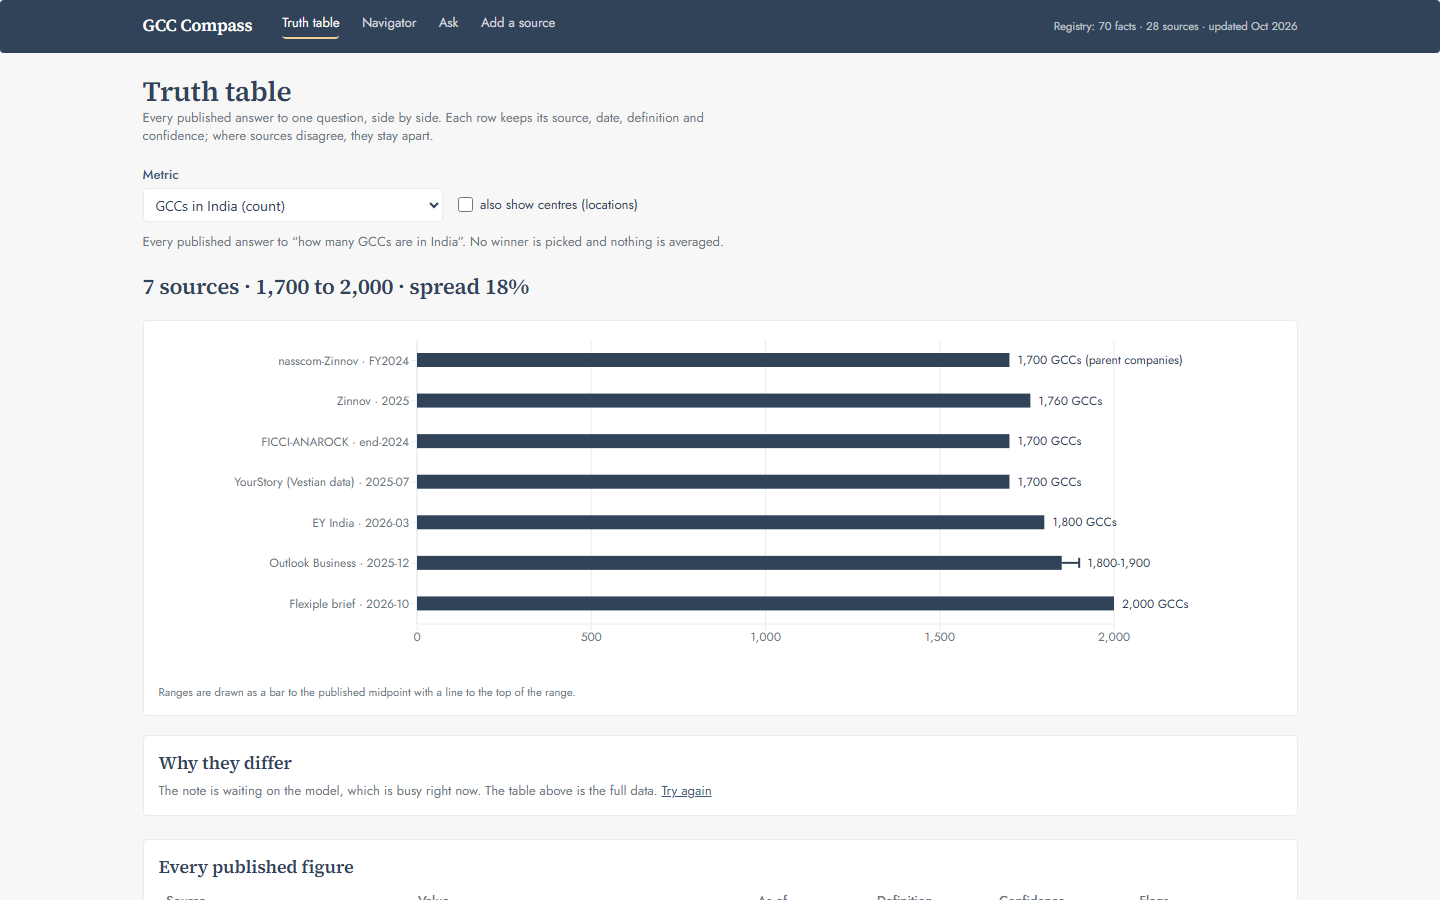
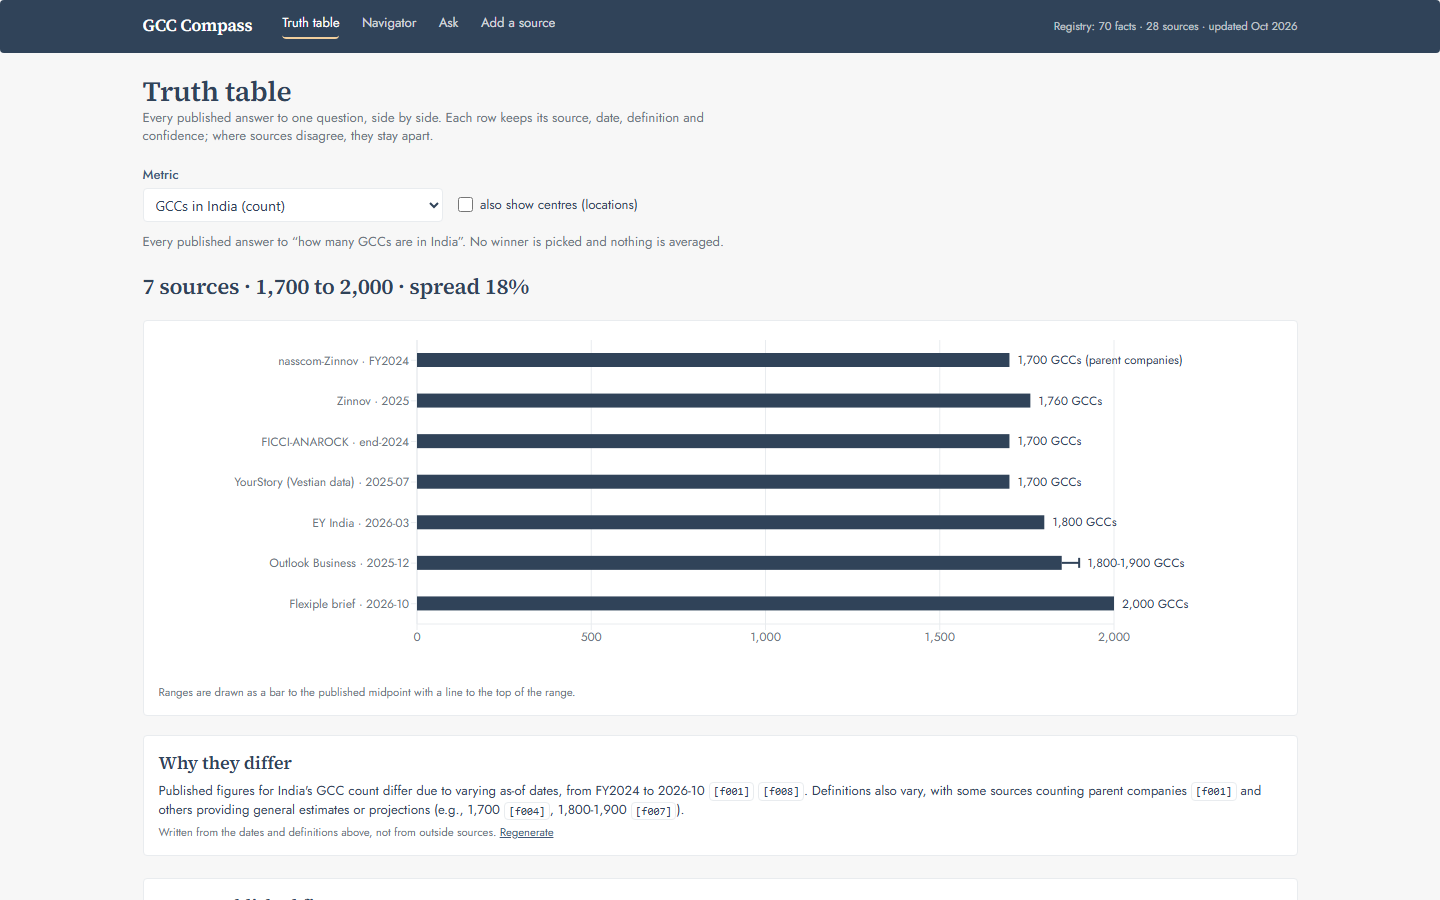
six leftovers: stray ids, internal to-dos, stacking retries
The Haryana card led with a lone [f600] chip. It was a real citation, but sitting
alone as the first item of a row it read as a stray token, and the row already
carries the value, the date and a link to EY. Dropped from that list; the id still
appears where it earns its place, in the Answer citations.

The Inductus and Draup provider notes ended with 'Add website as source before
launch' - a note to the author about unfinished research, printed to every reader
of the Who to call card. Removed from both seed copies; each provider keeps its
real description.

'new metric' was the schema's word for it. The badge now reads 'New field', which
is what a reviewer is being asked, and explains itself on hover.

The 1,800-1,900 bar was the only one on the chart without a unit, because a
published range carries its unit in the unit field rather than in the text. Labels
now read '1,800-1,900 GCCs' like their neighbours, without doubling a unit the
text already names.

Retry after a Busy answer appended a whole new question-and-error pair, so three
retries left three copies of the same message down the thread. Retry now replaces
the exchange it re-asks: three retries leave one, a successful retry takes the
failed answer's place, and a genuinely new question still appends.

Loading the Telangana sample cleared the rows it had just produced. The sample
text and fields never emptied - what vanished was the review - so re-loading now
[…]

diff --git a/components/ask/ChatThread.tsx b/components/ask/ChatThread.tsx
@@ -56,11 +56,18 @@ export function ChatThread() {
     bottomRef.current?.scrollIntoView({ behavior: "smooth" });
   }, [messages]);
 
-  const ask = async (q: string) => {
+  const ask = async (q: string, opts: { replace?: number } = {}) => {
     const text = q.trim();
     if (!text || busy) return;
-    setMessages((m) => [...m, { role: "user", text }]);
     setBusy(true);
+    if (opts.replace !== undefined) {
+      // A retry replaces the question and the failed reply already on screen.
+      // Appending instead left one Busy message per attempt stacked down the
+      // thread, so three retries read as three separate failures.
+      setMessages((m) => [...m.slice(0, opts.replace), { role: "user", text }]);
+    } else {
+      setMessages((m) => [...m, { role: "user", text }]);
+    }
     setMessages((m) => [...m, { role: "assistant", loading: true }]);
     try {
       const res = await fetch("/api/ask", {
@@ -97,9 +104,16 @@ export function ChatThread() {
     }
   };
 
+  /** Retry the last exchange in place, dropping the question and reply it replaces. */
   const retryLast = () => {
-    const lastUser = [...messages].reverse().find((m) => m.role === "user");
-    if (lastUser?.text) ask(lastUser.text);
+    let at = -1;
+    for (let i = messages.length - 1; i >= 0; i--) {
+      if (messages[i].role === "user") {
+        at = i;
+        break;
+      }
+    }
+    if (at >= 0) ask(messages[at].text ?? "", { replace: at });
   };
 
   return (

diff --git a/components/TruthView.tsx b/components/TruthView.tsx
@@ -117,8 +117,8 @@ export function TruthView({ presets }: { presets: TruthPreset[] }) {
           key: f.id,
           label: `${sourceLabel(src, f.source_id)} · ${f.as_of}`,
           value_num: f.value_num,
-          valueLabel: factValue(f),
-          shortLabel: f.value_text ?? inrNum(f.value_num as number),
+          valueLabel: withUnit(factValue(f), f.unit),
+          shortLabel: withUnit(f.value_text ?? inrNum(f.value_num as number), f.unit),
           rangeMax: rangeMaxOf(f),
           shade: spec.shade,
           fact: f,
@@ -470,6 +470,16 @@ function niceMax(v: number): number {
   const step = norm <= 1 ? 1 : norm <= 2 ? 2 : norm <= 5 ? 5 : 10;
   return step * mag;
 }
+/**
+ * A range published as text ("1,800-1,900") carries its unit in the unit field, so
+ * it was the only bar on the chart reading as a bare number while every other bar
+ * ended in "GCCs". This gives the text-published ones the same treatment.
+ */
+function withUnit(text: string, unit: string | null): string {
+  if (!unit) return text;
+  return text.toLowerCase().includes(unit.toLowerCase()) ? text : `${text} ${unit}`;
+}
+
 function rangeMaxOf(f: Fact): number | null {
   if (!f.value_text) return null;
   const nums = f.value_text.match(/\d[\d,]*(?:\.\d+)?/g);

diff --git a/components/navigator/EligibilityCards.tsx b/components/navigator/EligibilityCards.tsx
@@ -8,7 +8,6 @@ import type { RankedCity } from "@/lib/scoring";
 import { Card } from "@/components/ui/table";
 import { StatusPill, UnverifiedBadge, ConfidenceBadge, SiteLinkFlag, AiExtractedBadge } from "@/components/ui/badge";
 import { LinkButton } from "@/components/ui/button";
-import { CitationChip } from "@/components/CitationChip";
 import { factValue } from "@/lib/format";
 
 const INCENTIVE_TYPE_LABELS: Record<string, string> = {
@@ -103,7 +102,9 @@ export function EligibilityCards({
                         const src = reg.source(f.source_id);
                         return (
                           <li key={f.id} className="text-[13px] flex flex-wrap items-center gap-2">
-                            <CitationChip id={f.id} />
+                            {/* the id is not shown here: the value, date and source below
+                                already say what this row is, and a lone [f600] reads as a
+                                stray token rather than a reference */}
                             <span>{f.value_text ?? factValue(f)}</span>
                             <span className="text-muted">(as of {f.as_of})</span>
                             {src && (

diff --git a/components/add-source/ExtractionReview.tsx b/components/add-source/ExtractionReview.tsx
@@ -90,7 +90,11 @@ export function ExtractionReview({
                 {entityLabel(r.entity_type, r.entity_id, r.entity_name)}
               </span>
               <span className="text-[12px] text-slate">{metricLabel(r.metric)}</span>
-              {r.new_metric && <Badge>new metric</Badge>}
+              {r.new_metric && (
+                <Badge title="A field this registry doesn't carry yet. Approving it adds a new one.">
+                  New field
+                </Badge>
+              )}
               <ConfidenceBadge level={r.suggested_confidence} />
               <span className="ml-auto flex gap-2">
                 <Button

diff --git a/app/add-source/page.tsx b/app/add-source/page.tsx
@@ -68,8 +68,10 @@ export default function AddSourceView() {
     // the sample text on its own; the "paraphrased" caption belongs to the UI,
     // not to the text that gets sent for extraction
     setText(TELANGANA_SAMPLE.text);
-    setRows(null);
     setError(null);
+    // Clicking the sample while its rows are already on screen must not wipe them:
+    // loading the same sample twice is a no-op for the review, and re-extracting
+    // only happens if the reader asks for it.
     setSampleLoaded(true);
   };
 
